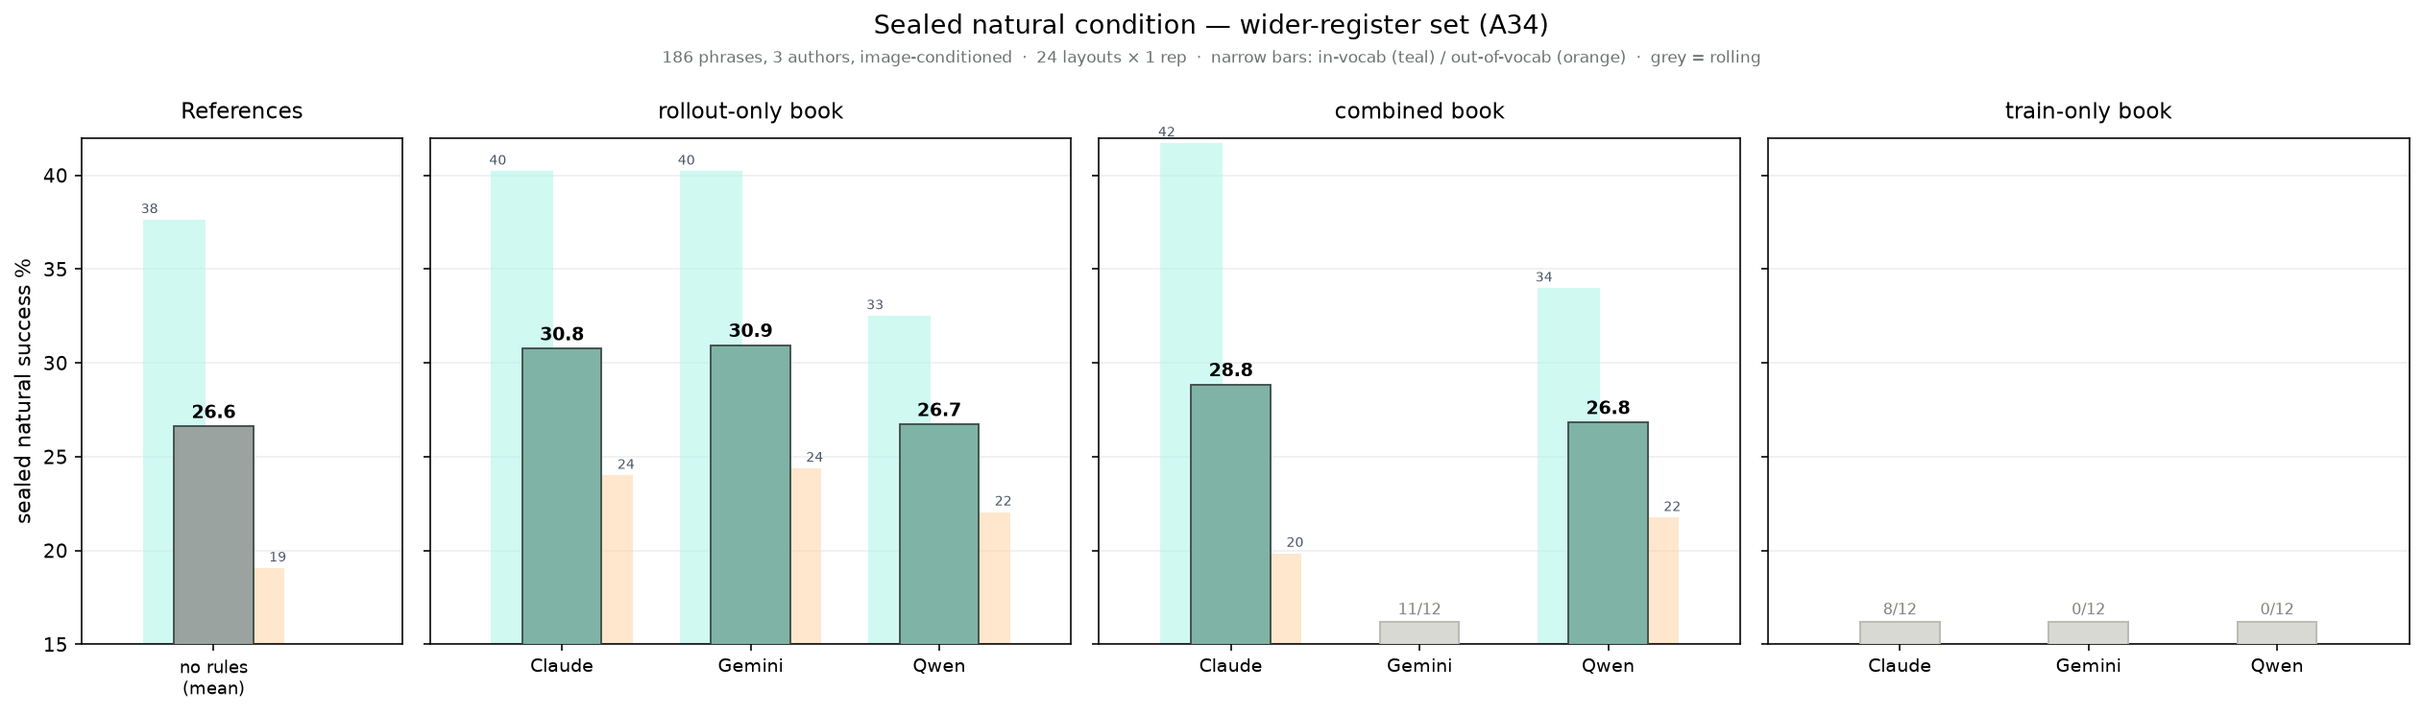
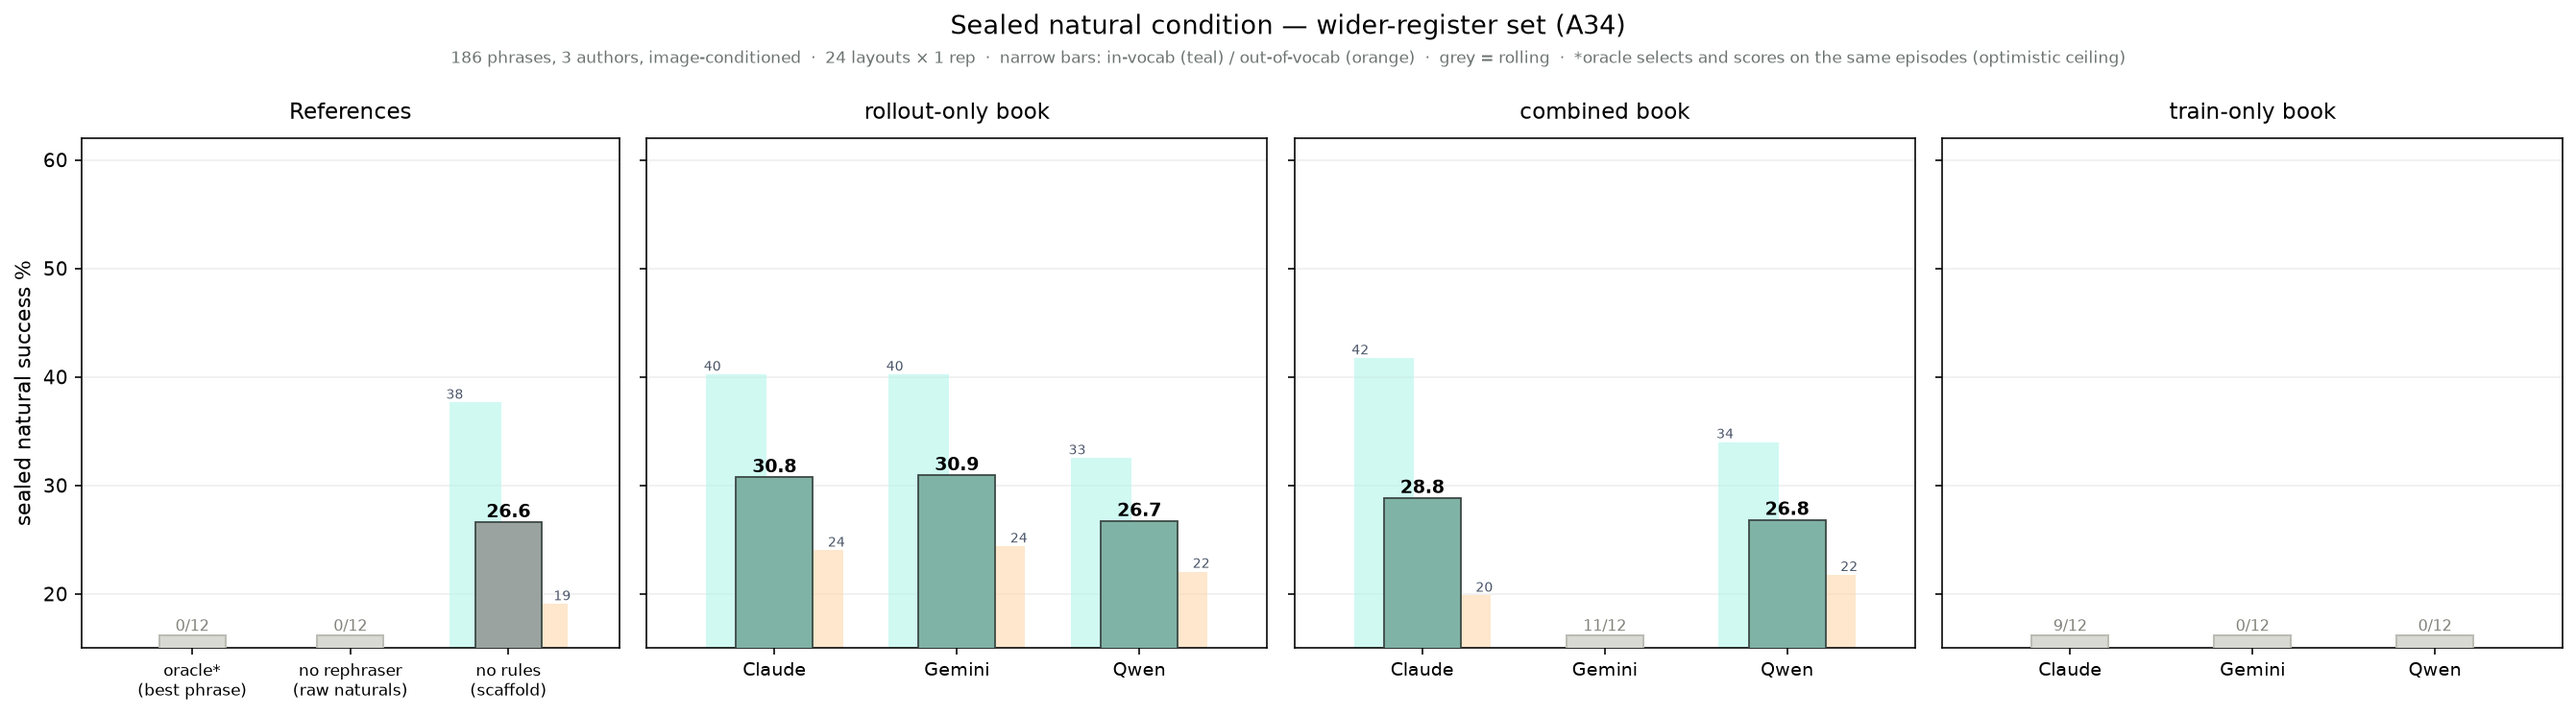
A34 bars: references panel gains oracle* (naive ceiling) and no-rephraser bars

diff --git a/scripts/make_a34_bars.py b/scripts/make_a34_bars.py
@@ -44,10 +44,10 @@ BOOKS = [("s", "rollout-only"), ("b", "combined"), ("t", "train-only")]
 APPS = [("cl", "Claude"), ("ge", "Gemini"), ("qw", "Qwen")]
 C_RULES, C_BASE = "#7fb3a6", "#9aa3a0"
 C_IV, C_OOV = "#b2f5ea", "#fed7aa"
-YMIN, YMAX = 15, 42
+YMIN, YMAX = 15, 62
 
-fig, axes = plt.subplots(1, 4, figsize=(17.5, 5.2), sharey=True,
-                         gridspec_kw={"width_ratios": [1.5, 3, 3, 3]})
+fig, axes = plt.subplots(1, 4, figsize=(18.6, 5.2), sharey=True,
+                         gridspec_kw={"width_ratios": [2.6, 3, 3, 3]})
 
 def triplet(ax, x, trip, color, label_n=True):
     p, iv, oo = trip
@@ -59,21 +59,41 @@ def triplet(ax, x, trip, color, label_n=True):
     ax.text(x, p + 0.45, f"{p:.1f}", ha="center", fontsize=9.5, fontweight="bold", zorder=4)
 
 base = cell("d34basen")
-axB = axes[0]
-refs, ticks, tlabels = [], [], []
-if base:
-    refs.append(("un-rephrased", base))
+
+def oracle():
+    """Per-task best natural phrase, measured on the un-rephrased arm.
+    NAIVE (selection and estimate on the same episodes): an optimistic ceiling,
+    not a held-out oracle -- the per-layout data needed for a split-half
+    protocol lives on the pods and is not committed. Marked * on the chart."""
+    fs = groups.get("d34basen", [])
+    if len(fs) < 12:
+        return None
+    d = pd.concat([pd.read_parquet(x) for x in fs]).dropna(subset=["gt_success"]).copy()
+    best = d.loc[d.groupby("task").gt_success.idxmax()].copy()
+    best["s"] = best.task.map(STRAT)
+    return (best.gt_success.mean(),
+            best[best.s == "IV"].gt_success.mean(),
+            best[best.s == "OOV"].gt_success.mean())
+
 sc = [cell(f"d34sc{ak}n") for ak, _ in APPS]
 sc_ok = [s for s in sc if s]
-if sc_ok:
-    refs.append(("no rules\n(mean)", tuple(sum(s[i] for s in sc_ok) / len(sc_ok) for i in range(3))))
-for i, (nm, trip) in enumerate(refs):
-    triplet(axB, float(i), trip, C_BASE)
+sc_mean = tuple(sum(s[i] for s in sc_ok) / len(sc_ok) for i in range(3)) if sc_ok else None
+
+REFS = [("oracle*\n(best phrase)", oracle(), "#2f855a"),
+        ("no rephraser\n(raw naturals)", base, "#4a5568"),
+        ("no rules\n(scaffold)", sc_mean, C_BASE)]
+axB = axes[0]
+ticks, tlabels = [], []
+for i, (nm, trip, col) in enumerate(REFS):
+    if trip:
+        triplet(axB, float(i), trip, col)
+    else:
+        n = len(groups.get("d34basen", []))
+        axB.bar(float(i), YMIN + 1.2, 0.42, color="#d9d9d4", edgecolor="#bcbcb5", zorder=3)
+        axB.text(i, YMIN + 1.6, f"{n}/12", ha="center", fontsize=8, color="#82827b", zorder=4)
     ticks.append(i); tlabels.append(nm)
-if not refs:
-    axB.text(0.5, 28, "baseline\nrolling", ha="center", color="#8a8a83", fontsize=10)
-axB.set_xticks(ticks); axB.set_xticklabels(tlabels, fontsize=9)
-axB.set_xlim(-0.7, max(len(refs) - 0.3, 1.0))
+axB.set_xticks(ticks); axB.set_xticklabels(tlabels, fontsize=8.5)
+axB.set_xlim(-0.7, len(REFS) - 0.3)
 axB.set_title("References", fontsize=11.5, pad=10)
 axB.set_ylabel("sealed natural success %", fontsize=11)
 
@@ -100,7 +120,7 @@ axes[0].set_ylim(YMIN, YMAX)
 fig.text(0.5, 0.965, "Sealed natural condition — wider-register set (A34)", ha="center", fontsize=13.5)
 fig.text(0.5, 0.925,
          "186 phrases, 3 authors, image-conditioned  ·  24 layouts × 1 rep  ·  "
-         "narrow bars: in-vocab (teal) / out-of-vocab (orange)  ·  grey = rolling",
+         "narrow bars: in-vocab (teal) / out-of-vocab (orange)  ·  grey = rolling  ·  *oracle selects and scores on the same episodes (optimistic ceiling)",
          ha="center", fontsize=8.6, color="#6b7370")
 fig.tight_layout(rect=[0, 0.01, 1, 0.90])
 out = R / "results/charts/a34_natural_bars.png"
